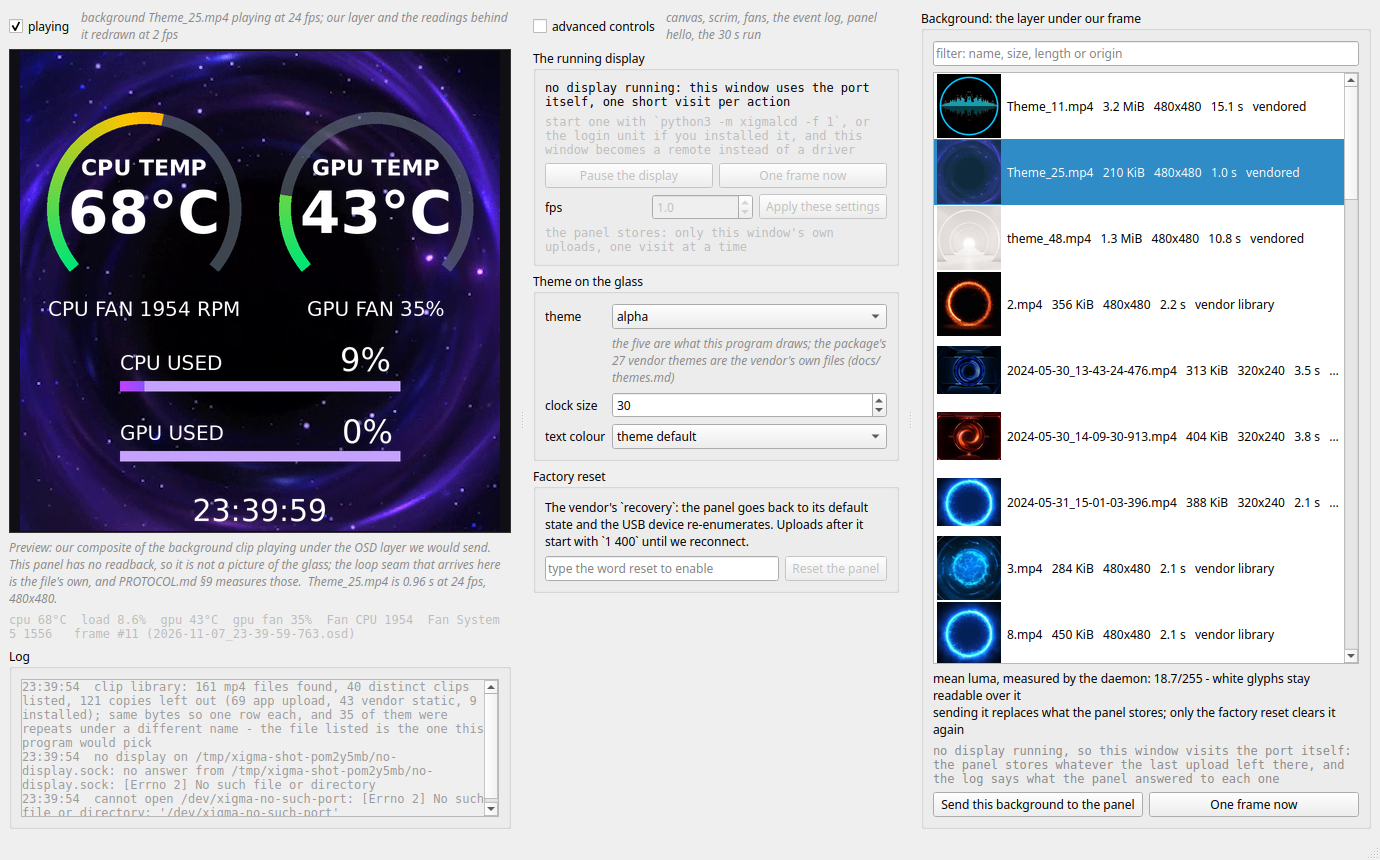
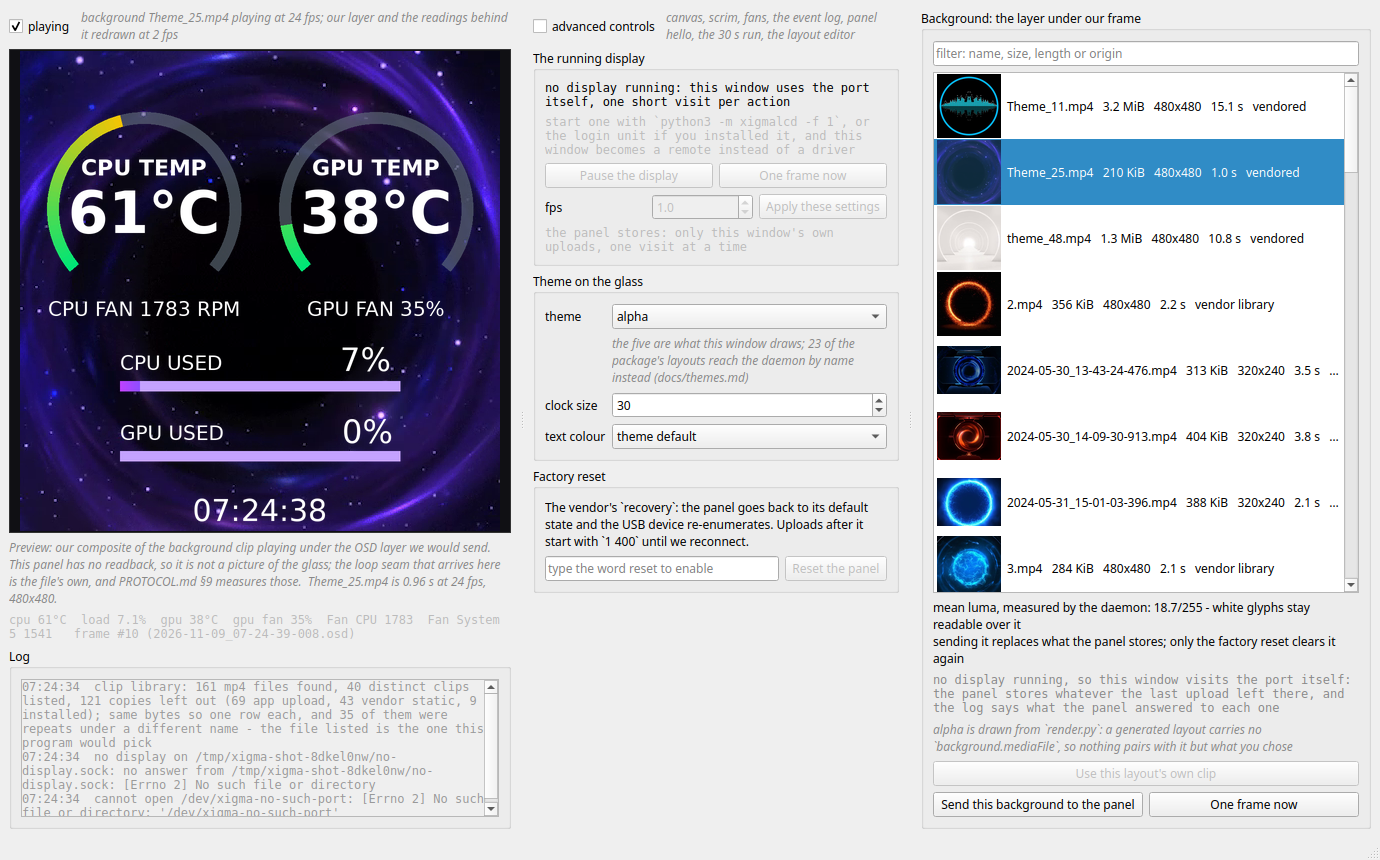
a layout names its own background, and the window follows it until you choose
The pairing was already in the tree as data and had never been used as an action. Every
vendor layout declares one clip in its own file - `background.mediaFile` - `themes.scan()`
already kept the field in each record, and `--list-themes` already printed `background
Theme_25.mp4 from checkout`. Nothing read it: the clip the pane played (`self.mp4`) and the
theme under the cursor were independent variables, joined only by `DEFAULT_MP4` being
`Theme_25.mp4` because the vendor's `store.json` said so.

**`themes.pair(NAME)` is now the one reader of that field**, so the window, `--list-themes`
and the file cannot disagree. Held to the library: all 23 selectable layouts name a clip,
the 23 are distinct (no two layouts share one, which is what makes the pairing a function
rather than a preference), and the 4 canvas-refused ones answer with their ratio instead -
one of those four names a `.png` rather than a clip, which is one more reason the refusal is
keyed on the file's own `ratio` field and not on what sits beside it. For the five names
this repo draws from `render.py` it returns a *reason*, not an empty string: a generated
layout carries no `background.mediaFile` because it *is* the picture, and the window says
that where the question was asked rather than leaving the reader to wonder whether the
pairing is broken.

**`clips.find(name, rows)` answers "which file is this clip?" with three states, because
[…]

diff --git a/xigmaui/app.py b/xigmaui/app.py
@@ -306,6 +306,21 @@ class Window(QMainWindow):
         self.bg_timer = QTimer(self)          # the background's own clock
         self.bg_timer.timeout.connect(self._play_tick)   # connected once, here
         self.mp4 = self.cfg["clip"]
+        # Whether the background under the preview is *yours* or the theme's.  A vendor
+        # layout names one clip in its own file (`themes.pair`), and while this is False
+        # the window follows that: open `Theme_07`, and `Theme_07.mp4` goes under the
+        # layer.  Choosing a clip from the library sets it, and the row that hands the
+        # layout its own clip back clears it - so "I picked this" is a fact the window
+        # remembers across restarts instead of one it has to guess from a path.
+        self.clip_custom = bool(self.cfg.get("clip_customized", False))
+        self._pair_target = ""          # the clip the open layout names, if any
+        self.pair_note = ""             # the sentence the pairing ended with
+        # Whether the list's current row moved because a reader clicked it.  Population
+        # selects the row that matches the restored clip, and the pairing selects the row
+        # it chose; both are the window answering its own question, and treating either as
+        # a choice is how "the background is mine" becomes true on a window where nobody
+        # chose anything.
+        self._programmatic = False
         self.tray_wanted = self.cfg["tray"] if tray is None else tray
         self._quitting = False
         self.bg_frame: Image.Image | None = None
@@ -356,6 +371,10 @@ class Window(QMainWindow):
         self.preview_timer.timeout.connect(self._repaint)
         self.preview_timer.start(max(200, int(1000 / self.preview_fps)))
         self._load_background(self.mp4)
+        # Said even at a fresh window, because "the theme chose this background" and "you
+        # chose this background" are different claims about the same picture, and the pane
+        # cannot tell them apart by looking at it.
+        self._apply_pair(self.theme.currentText())
         self.daemon.poll(report=True)
         if not self.daemon.present:
             # the box has to say what it is even when there is nothing to say
@@ -585,7 +604,7 @@ class Window(QMainWindow):
         self.theme = QComboBox()
         self.theme.addItems(sorted(render.THEMES))
         self.theme.setCurrentText(self.cfg["theme"])
-        self.theme.currentTextChanged.connect(self._changed)
+        self.theme.currentTextChanged.connect(self._theme_chosen)
         self.theme.setToolTip(
             "the drawings `xigmalcd` renders itself, from live sensor readings. "
             "The vendor's layouts are not in this list on purpose: this combo picks "
@@ -872,6 +891,23 @@ class Window(QMainWindow):
         self.clip_state.setWordWrap(True)
         self.clip_state.setStyleSheet("font-family:monospace;")
         mlay.addWidget(self.clip_state)
+        # The pairing, said where the clip is chosen rather than in the editor's box: it
+        # is the background's business, not the layout fields'.  One button, because a
+        # flag a reader sets by accident needs the way back in the same place.
+        self.pair_state = QLabel()
+        self.pair_state.setWordWrap(True)
+        self.pair_state.setStyleSheet("color:#888;font-style:italic;")
+        mlay.addWidget(self.pair_state)
+        self.btn_pair = QPushButton("Use this layout's own clip")
+        self.btn_pair.setToolTip(
+            "a vendor layout names one background clip in its own file, and the window "
+            "follows that pairing until you choose a clip here.  This puts the layout's "
+            "own clip back and follows it again from now on. The five themes this repo "
+            "draws from `render.py` name no clip, so with one of those open the pairing "
+            "has nothing to do (docs/themes.md, PROTOCOL.md \u00a711)")
+        self.btn_pair.clicked.connect(self._use_pair)
+        self.btn_pair.setEnabled(False)
+        mlay.addWidget(self.btn_pair)
         row = QHBoxLayout()
         self.btn_upload = QPushButton("Send this background to the panel")
         # Ctrl+Shift+U rather than Ctrl+U, because of what the field directly
@@ -1415,6 +1451,11 @@ class Window(QMainWindow):
             self.bg_frame = frame
 
     # ---- settings --------------------------------------------------------
+    def _theme_chosen(self, *_a) -> None:
+        """A theme picked: the pairing gets the first word, the repaint the second."""
+        self._apply_pair(self.theme.currentText())
+        self._changed()
+
     def _changed(self, *_a) -> None:
         """Any picker moved: repaint now, write the file once the burst settles."""
         self._repaint()
@@ -1427,6 +1468,7 @@ class Window(QMainWindow):
                 "canvas": "black" if self.canvas.currentIndex() else "clear",
                 "scrim": self.scrim.value(), "fans": self.fanline.isChecked(),
                 "preview_fps": self.preview_fps, "clip": self.mp4,
+                "clip_customized": self.clip_custom,
                 "animate": self.anim_toggle.isChecked(),
                 "advanced": self.adv_toggle.isChecked(),
                 "size": [self.width(), self.height()],
@@ -1509,7 +1551,11 @@ class Window(QMainWindow):
             self.clips.addItem(item)
         first = next((i for i, c in enumerate(self.all_clips)
                       if c.path == self.mp4), 0)
-        self.clips.setCurrentRow(first)
+        self._programmatic = True
+        try:
+            self.clips.setCurrentRow(first)
+        finally:
+            self._programmatic = False
         self._pending = list(range(len(self.all_clips)))
         # the row you selected first, then whatever is on screen, then the rest
         self._pending.remove(first)
@@ -1569,6 +1615,68 @@ class Window(QMainWindow):
                    QImage.Format.Format_RGBA8888).copy()
         item.setIcon(QIcon(QPixmap.fromImage(q)))
 
+    def _apply_pair(self, name: str) -> None:
+        """Follow the background a theme names, unless the background is yours.
+
+        One rule, said out loud in every branch, because the interesting part is the case
+        where it does nothing: the five themes drawn from `render.py` declare no clip at
+        all, and a clip the box does not have is a fact the reader needs, not a silence.
+        """
+        clip, why = themes.pair(name)
+        self._pair_target = clip
+        if not clip:
+            self.pair_note = why if not self.clip_custom else (
+                f"background is yours: {os.path.basename(self.mp4)}. "
+                f"{why[0].upper() + why[1:]}")
+            self._refresh_pair()
+            return
+        if self.clip_custom:
+            self.pair_note = (f"background is yours: {os.path.basename(self.mp4)}. This "
+                              f"layout names {clip} - the button below takes it back.")
+            self._refresh_pair()
+            return
+        path, how = clipdb.find(clip, self.all_clips)
+        if not path:
+            self.pair_note = (f"{name} names {clip}, which this box does not have; "
+                              f"keeping {os.path.basename(self.mp4)}.")
+            self._refresh_pair()
+            return
+        self.pair_note = (
+            f"{name} pairs with {clip} ({how}); it is under the layer now."
+            + ("" if how == "row" else " No row of the library holds these bytes, so "
+                                       "nothing is marked in the list."))
+        if path != self.mp4:
+            self._load_background(path)      # repaints, and the note is written after
+            self._pair_row(path)
+        else:
+            self._pair_row(path)
+        self._refresh_pair()
+
+    def _pair_row(self, path: str) -> None:
+        """Mark the list's row for a clip the pairing chose.  Guarded, not silent: the row
+        is selected so the reader can see which of the 40 it is, and `_clip_chosen` runs as
+        it always does, but the one thing it must not do is record a choice nobody made."""
+        for i, clip in enumerate(getattr(self, "all_clips", [])):
+            if clip.path == path:
+                self._programmatic = True
+                try:
+                    self.clips.setCurrentRow(i)
+                finally:
+                    self._programmatic = False
+                return
+
+    def _use_pair(self) -> None:
+        """The way back: the layout's own clip, and the pairing re-armed."""
+        self.clip_custom = False
+        self._apply_pair(self.ed.name if self.ed is not None
+                         else self.theme.currentText())
+        self.save_timer.start()
+        self._log(f"background: the layout's own clip ({self.pair_note})")
+
+    def _refresh_pair(self) -> None:
+        self.pair_state.setText(self.pair_note)
+        self.btn_pair.setEnabled(bool(self._pair_target) and self.clip_custom)
+
     def _clip_chosen(self, item: QListWidgetItem | None, *_a) -> None:
         if item is None:
             return
@@ -1581,6 +1689,13 @@ class Window(QMainWindow):
             item.setText(self._row(self.all_clips[i]))
         self._load_background(path)
         self._queued_bg = ""          # a new pick has not been asked for yet
+        # This is the moment that makes the background yours, and it is the only one: a
+        # row was clicked.  `clip_customized` is what stops a later layout change from
+        # walking over the choice, and the pairing note says what was given up.
+        if not self.clip_custom and not self._programmatic:
+            self.clip_custom = True
+            self._apply_pair(self.ed.name if self.ed is not None
+                             else self.theme.currentText())
         self._refresh_clip_state()
         self.save_timer.start()          # next start opens on the clip you chose
         # the detail only: the row itself is the line directly above this label,
@@ -1665,6 +1780,7 @@ class Window(QMainWindow):
             self.ed_state.setText("not editing: the pane below shows the theme above, "
                                   "drawn from this machine's readings")
             self.ed_note.setText("")
+            self._apply_pair(self.theme.currentText())
             self._repaint()
             return
         try:
@@ -1677,6 +1793,10 @@ class Window(QMainWindow):
             self.ed_note.setText(str(exc))
             self._repaint()
             return
+        # A vendor layout carries its own background; follow it while the background has
+        # not been chosen by hand.  This is the only place the pairing is *driven*: the
+        # theme combo above lists the five drawn themes, which declare none.
+        self._apply_pair(name)
         for wid in (self.ed_widget, self.ed_field, self.ed_stack, self.ed_save,
                     self.ed_revert):
             wid.setEnabled(True)

diff --git a/xigmaui/clips.py b/xigmaui/clips.py
@@ -476,6 +476,39 @@ def list_clips(extra: str = "") -> list[Clip]:
     return found
 
 
+def find(name: str, clips: list[Clip] | None = None) -> tuple:
+    """Which file on this box a clip *name* means, and how sure the answer is.
+
+    The window needs this for one thing and it needs it to be honest: a vendor layout
+    names one clip in `background.mediaFile` (`themes.pair`), and to select the pair the
+    window has to name a file.  Three answers, because there are three states:
+
+    * **(path, "row")** - the clip is one of the rows the library column shows, so the
+      row can be marked as well as loaded.  This is the normal case: measured, all 23
+      selectable layouts name a clip that has a row on this bench.
+    * **(path, "file")** - the file exists in a root but the list holds no row for it,
+      because the dedupe rule let an identical clip keep the row (`Theme_31.mp4` is
+      `Theme_26.mp4`, sha256), or because the name is not a clip at all in the listed
+      sense - one refused 4:3 layout names a `.png`.  Said out loud rather than
+      presented as a row that is not there.
+    * **("", "")** - not on this box.  A layout's clip can be absent (a checkout without
+      the media, an install that took the library package but not the clips), and the
+      window says so instead of keeping quiet about a background it did not change.
+
+    Case is ignored on purpose: the vendor's own tree holds both `Theme_48.mp4` and
+    `theme_48.mp4` spellings, and a layout's declaration is not something a reader can
+    correct.
+    """
+    from xigmalcd.main import find_media
+
+    want = os.path.splitext(os.path.basename(str(name)))[0].lower()
+    for clip in (clips if clips is not None else list_clips()):
+        if os.path.splitext(os.path.basename(clip.path))[0].lower() == want:
+            return clip.path, "row"
+    path = find_media(os.path.basename(str(name)))
+    return (path, "file") if os.path.isfile(path) else ("", "")
+
+
 def probe(clip: Clip) -> float:
     """Measure one clip's loop length and frame size. One row at a time."""
     if not clip.seconds or not clip.px[0]:

diff --git a/xigmalcd/themes.py b/xigmalcd/themes.py
@@ -405,6 +405,34 @@ def draw(obj: dict, metrics: dict, when=None, scrim: int = 0) -> tuple:
     return img, notes
 
 
+def pair(name: str) -> tuple:
+    """Which background clip a theme names, and the reason when it names none.
+
+    A vendor layout declares exactly one clip in `background.mediaFile` - 23 of the
+    library's 27 do, and the 23 values are distinct (`scan()` keeps the field for that
+    reason, and `--list-themes` prints it).  A generated layout declares none: the five
+    themes this repo draws from `render.py` are pictures, not a vendor's page with a
+    background behind it, so their exports carry no such key and there is nothing to pair.
+    That asymmetry is why this returns a *reason* rather than an empty string: the window
+    has to be able to say, in the place the question was asked, that the theme under the
+    cursor has no clip of its own, instead of silently keeping whatever was there.
+
+    The answer comes from whichever file `resolve()` chose, so a copy you have edited
+    pairs with the clip your copy names, not the vendor's.
+
+    Returns `(clip_basename, why_not)`; exactly one of the two is ever non-empty.
+    """
+    if name in EXPORTS:
+        return "", (f"{name} is drawn from `render.py`: a generated layout carries no "
+                    "`background.mediaFile`, so nothing pairs with it but what you chose")
+    rec = resolve(name)
+    if rec is None:
+        return "", why_not(name)
+    if not rec.get("background"):
+        return "", (f"{os.path.basename(rec['path'])} declares no `background.mediaFile`")
+    return os.path.basename(str(rec["background"])), ""
+
+
 def describe(record: dict) -> str:
     """One line: what `--theme <name>` will draw, and where the file came from."""
     return (f"  {record['name']:<12} {record['id']}  {record['w']}x{record['h']} "

diff --git a/xigmaui/settings.py b/xigmaui/settings.py
@@ -35,6 +35,13 @@ DEFAULTS: dict = {
     "preview_fps": 2.0,        # host-side only; a frame renders in ~9 ms
     "advanced": False,         # the folded-away knobs: see app.py:_set_advanced
     "animate": True,           # the preview pane plays the clip; False = one frame
+    # Whether the background is *yours* rather than the theme's.  A vendor layout names
+    # one clip (`themes.pair`), and the window follows that pairing while this is False -
+    # picking another clip, or sending one to the panel, makes it True, and the row that
+    # offers the layout's own clip is what turns it back.  It has to be a stored flag
+    # rather than "the clip is not the default", because a paired clip and a chosen one
+    # are the same shape once they are both paths on disk.
+    "clip_customized": False,
     "size": [1180, 780],       # the window as you left it: wide enough for the
                                # three columns, and short enough for a 1080p screen
     "split": [520, 460, 560],  # the three columns, as you left the splitter between
@@ -101,6 +108,11 @@ def _clean(loaded: dict) -> dict:
         out["advanced"] = loaded["advanced"]
     if isinstance(loaded.get("animate"), bool):
         out["animate"] = loaded["animate"]
+    # a real bool only: `"yes"`, 1 and null are the kinds of thing a hand-edited config
+    # picks up, and a truthy string here would silently stop the window following a
+    # layout's own clip
+    if isinstance(loaded.get("clip_customized"), bool):
+        out["clip_customized"] = loaded["clip_customized"]
     try:
         fps = float(loaded["preview_fps"])
         if 0.5 <= fps <= 10:

diff --git a/docs/gui.md b/docs/gui.md
@@ -531,6 +531,30 @@ alone. The author's own `~/.config/xigmaui/config.json` at 07:33 holds
 `clip: /usr/share/xigmalcd/themes/alpha/clips/theme_47.mp4` and `clock_size: 30`,
 which is the fingerprint of those three picks: the clip moved, the glass did not.
 
+**A layout names the picture under it, and the window follows that - until you choose.**
+Every vendor layout declares exactly one clip in its own file (`background.mediaFile`):
+all 23 selectable layouts name a distinct one, and `themes.pair(NAME)` is the one place
+that reads it, so `--list-themes` and the window cannot disagree with each other or with
+the file. Opening a layout in the editor puts its own clip under the preview and marks
+that row in the library column - measured over all 23, every one of them resolved to a
+row on this bench, and the suite asserts both halves. Two cases are said out loud rather
+than left to be inferred:
+
+* **the five themes this repo draws from `render.py` name no clip at all.** A generated
+  layout *is* the picture; there is nothing under it, and the line under the clip list
+  says so instead of leaving the reader to wonder whether the pairing is broken.
+* **a clip you picked is yours.** Choosing a row in the library sets `clip_customized`
+  in the settings file - a stored bool, because "I picked this" is a fact about a human
+  that no path on disk can recover - and from then on opening a layout leaves the
+  background alone and says which clip that layout would have used.  **Use this layout's own clip**
+  clears the flag, takes the pair back, and re-arms the pairing. Populating
+  the list also selects a row; that is the window answering its own question, and the
+  gate checks that it does *not* set the flag, because it looked exactly like a choice.
+
+The pairing changes nothing about the wire: it decides what the *preview* composites
+under our layer, and the upload button is still the only thing that sends a file to the
+panel (docs/themes.md, PROTOCOL.md §11).
+
 
 The twice-per-session metrics blob is not decoration: PROTOCOL.md §8 measures that
 `STATE all 1` goes out at the head of a session and nowhere else (TX frames 3 and 4 of

diff --git a/docs/themes.md b/docs/themes.md
@@ -12,6 +12,14 @@ or the numeric id `1757491588804` - painted by `xigmalcd/layout.py` at the canva
 file itself declares and uploaded as an ordinary `.osd` frame. What has never happened,
 and still has not, is sending a theme file to the panel:
 
+That declaration is a field, not a naming convention: `background.mediaFile`, and the 23
+selectable layouts name 23 different clips between them - no two layouts share one.
+`themes.pair(NAME)` reads it, `--list-themes` prints it, and the window follows it:
+opening a layout puts that clip under the preview unless the reader has chosen a
+background by hand (docs/gui.md). Three of the four canvas-refused files name clips as
+well, and one names a `.png` rather than a clip - one more reason the refusal is keyed on
+a file's own `ratio` field rather than on what sits beside it.
+
 * the `.thm` files (27 of them, 6.8 MB at the largest, 66 300 082 B together) are the
   panel-side theme definitions the Windows app decrypts and interprets -
   `tools/thm_unlock.py` opened them with the app's constants to learn what is in them,
